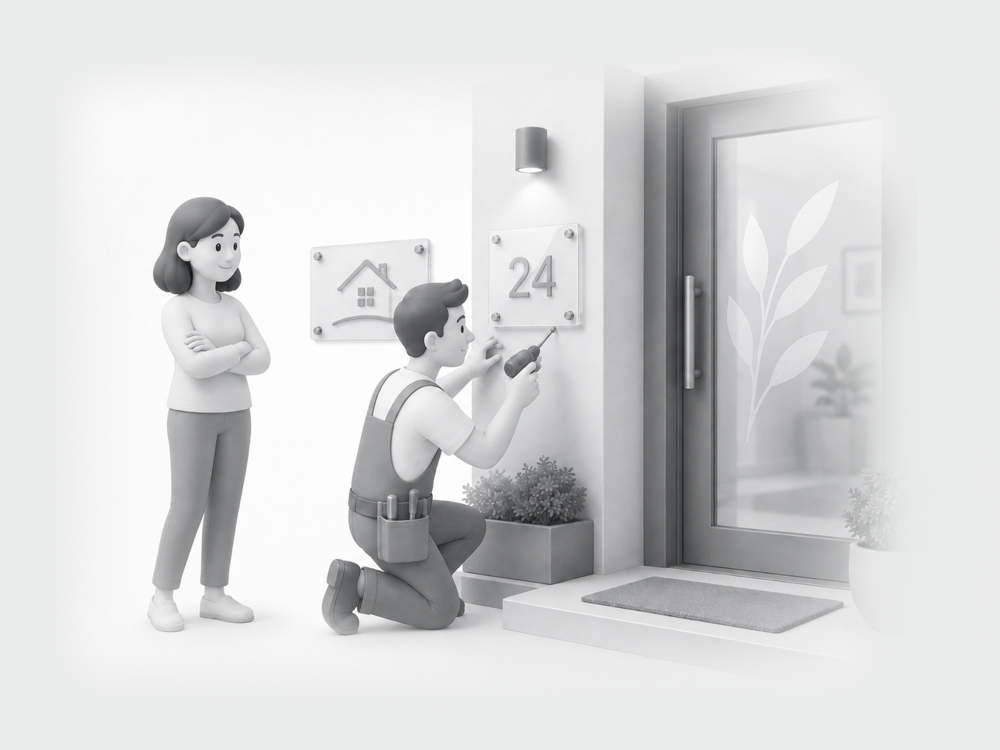
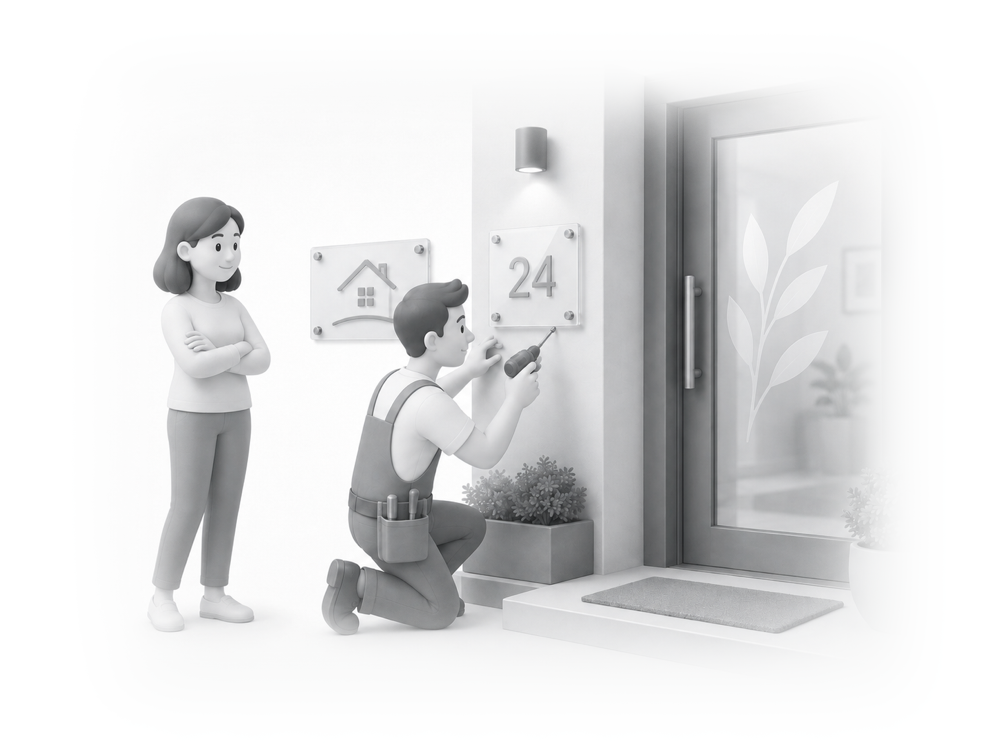
Intro plays every load + uses signage PNGs; fix theme-color
Theme:
- theme-color meta switched from cream (#f4f1ea) to #ffffff so the
  iOS Safari address-bar / status-bar tint matches the white nav.
  The "grey bar above the menu" was the iOS chrome painting the
  old theme-color above the page

Intro overlay:
- Dropped the sessionStorage check — the welcome now plays every
  refresh as requested
- Replaced the single SVG mark with a row of four real signage
  PNGs (notice, house-number, hanging, wall-panel) loosely
  pinned with alternating rotations
- Each sign animates in with back.out easing + stagger so the
  row assembles like little plaques being mounted
- Word + tagline follow, then the whole stack lifts and the
  overlay fades

diff --git a/assets/js/main.js b/assets/js/main.js
@@ -4,41 +4,46 @@
 (function () {
   'use strict';
 
-  /* ---- intro overlay: short welcome on first visit ---- */
+  /* ---- intro overlay: short welcome — plays every page load ---- */
   (function () {
     var intro = document.getElementById('intro');
     if (!intro) return;
-    var seen = false;
-    try { seen = !!sessionStorage.getItem('introSeen'); } catch (_) {}
     var reduce = matchMedia('(prefers-reduced-motion: reduce)').matches;
 
     function finish() {
-      try { sessionStorage.setItem('introSeen', '1'); } catch (_) {}
       document.body.classList.remove('intro-active');
       intro.remove();
       window.dispatchEvent(new Event('intro:done'));
     }
 
-    if (seen || reduce || !window.gsap) {
-      // skip the animation — fire the event so animations.js can start immediately
+    if (reduce || !window.gsap) {
       requestAnimationFrame(finish);
       return;
     }
 
     document.body.classList.add('intro-active');
-    var mark = intro.querySelector('.intro__mark');
-    var word = intro.querySelector('.intro__word');
-    var sub  = intro.querySelector('.intro__sub');
+    var signs = intro.querySelectorAll('.intro__sign');
+    var word  = intro.querySelector('.intro__word');
+    var sub   = intro.querySelector('.intro__sub');
     var inner = intro.querySelector('.intro__inner');
 
-    gsap.set([mark, word, sub], { autoAlpha: 0, y: 14 });
+    // each sign gets a small base rotation so the row feels hand-pinned, not a line of stamps
+    var rots = [-7, 4, -3, 6];
+    signs.forEach(function (el, i) {
+      gsap.set(el, { autoAlpha: 0, y: 30, scale: 0.7, rotation: rots[i % rots.length] });
+    });
+    gsap.set([word, sub], { autoAlpha: 0, y: 14 });
 
     var tl = gsap.timeline({ onComplete: finish });
-    tl.to(mark, { autoAlpha: 1, y: 0, scale: 1, duration: 0.55, ease: 'power3.out' })
-      .fromTo(mark, { scale: 0.88 }, { scale: 1, duration: 0.55, ease: 'power3.out' }, '<')
-      .to(word, { autoAlpha: 1, y: 0, duration: 0.5, ease: 'power3.out' }, '-=0.25')
+    tl.to(signs, {
+        autoAlpha: 1, y: 0, scale: 1,
+        duration: 0.55,
+        ease: 'back.out(1.5)',
+        stagger: { each: 0.08, from: 'start' }
+      })
+      .to(word, { autoAlpha: 1, y: 0, duration: 0.5, ease: 'power3.out' }, '-=0.2')
       .to(sub,  { autoAlpha: 1, y: 0, duration: 0.4, ease: 'power3.out' }, '-=0.3')
-      .to(inner, { y: -10, autoAlpha: 0, duration: 0.5, ease: 'power2.in' }, '+=0.45')
+      .to(inner, { y: -14, autoAlpha: 0, duration: 0.5, ease: 'power2.in' }, '+=0.55')
       .to(intro, { autoAlpha: 0, duration: 0.4, ease: 'power2.inOut' }, '-=0.15');
   })();
 

diff --git a/index.html b/index.html
@@ -5,7 +5,7 @@
   <meta name="viewport" content="width=device-width, initial-scale=1.0, viewport-fit=cover" />
   <title>Acrylic Signage — Clear acrylic signs, made &amp; shipped in 3–5 days</title>
   <meta name="description" content="Premium clear acrylic signs with standoff fixings for offices, shops and homes. Free artwork check, proof before print, made and shipped in 3–5 days across the UK. Acrylic, Dibond and Corex." />
-  <meta name="theme-color" content="#f4f1ea" />
+  <meta name="theme-color" content="#ffffff" />
 
   <!-- Open Graph -->
   <meta property="og:type" content="website" />
@@ -29,24 +29,15 @@
 <body>
   <a class="skip" href="#main">Skip to content</a>
 
-  <!-- ============ INTRO OVERLAY (first-load welcome) ============ -->
+  <!-- ============ INTRO OVERLAY (plays on every page load) ============ -->
   <div id="intro" class="intro" aria-hidden="true">
     <div class="intro__inner">
-      <span class="intro__mark">
-        <svg viewBox="0 0 64 64" fill="none" xmlns="http://www.w3.org/2000/svg">
-          <!-- outer panel -->
-          <rect x="5" y="8" width="54" height="48" rx="4.5" stroke="currentColor" stroke-width="2.2" opacity=".5"/>
-          <!-- standoffs -->
-          <circle cx="11" cy="14" r="2.2" fill="currentColor"/>
-          <circle cx="53" cy="14" r="2.2" fill="currentColor"/>
-          <circle cx="11" cy="50" r="2.2" fill="currentColor"/>
-          <circle cx="53" cy="50" r="2.2" fill="currentColor"/>
-          <!-- 3 stacked inner panels -->
-          <rect x="18"  y="20" width="28" height="6" rx="1.2" fill="currentColor" opacity=".25"/>
-          <rect x="20"  y="29" width="28" height="6" rx="1.2" fill="currentColor" opacity=".55"/>
-          <rect x="18"  y="38" width="28" height="6" rx="1.2" fill="currentColor" opacity=".85"/>
-        </svg>
-      </span>
+      <div class="intro__signs">
+        <img class="intro__sign" src="assets/img/makes/notice.png" alt="" />
+        <img class="intro__sign" src="assets/img/makes/house-number.png" alt="" />
+        <img class="intro__sign" src="assets/img/makes/hanging.png" alt="" />
+        <img class="intro__sign" src="assets/img/makes/wall-panel.png" alt="" />
+      </div>
       <h2 class="intro__word">acrylicsignage<span>.co.uk</span></h2>
       <p class="intro__sub">Made properly · Shipped in days</p>
     </div>

diff --git a/assets/css/styles.css b/assets/css/styles.css
@@ -109,6 +109,21 @@ body::before {
   height: clamp(64px, 12vw, 96px);
 }
 .intro__mark svg { width: 100%; height: 100%; }
+
+/* row of signage PNGs that animate in for the intro */
+.intro__signs {
+  display: flex;
+  align-items: center;
+  justify-content: center;
+  gap: clamp(.4rem, 1.2vw, .8rem);
+  margin-bottom: .4rem;
+}
+.intro__sign {
+  width: clamp(56px, 11vw, 110px);
+  height: auto;
+  object-fit: contain;
+  will-change: transform, opacity;
+}
 .intro__word {
   font-family: var(--display);
   font-size: clamp(1.6rem, 5vw, 2.6rem);